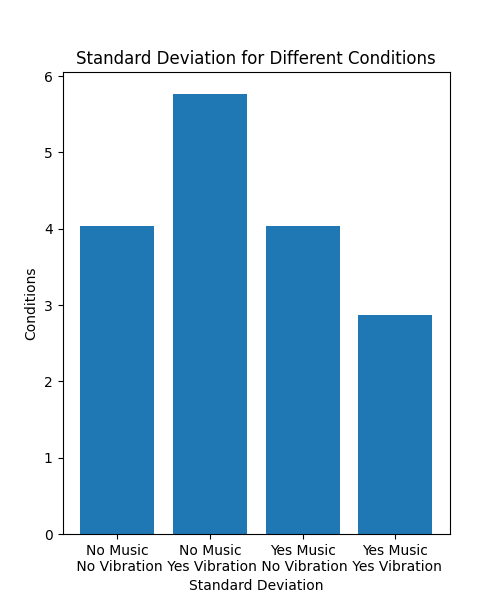
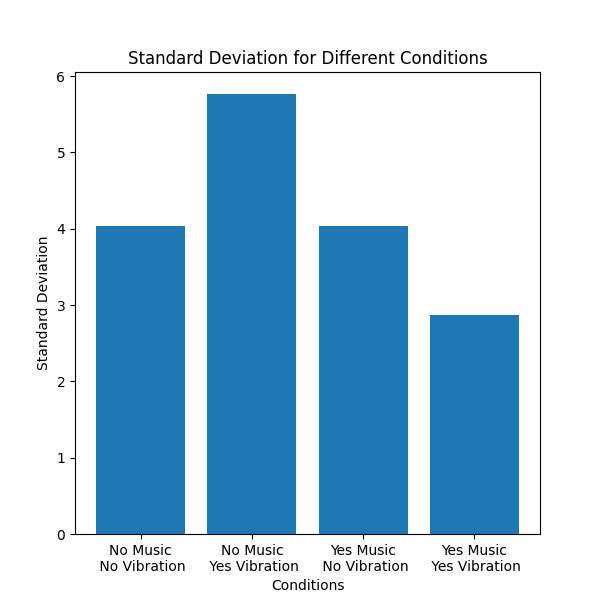
More fixes

diff --git a/analyzing/main.py b/analyzing/main.py
@@ -46,14 +46,14 @@ for item in sd_array:
 x_values = [item[0] for item in sd_array]
 y_values = [item[1] for item in sd_array]
 
-fig = plt.figure(figsize=(5, 6))
+fig = plt.figure(figsize=(6, 6))
 
 # Create a horizontal bar chart
 plt.bar(x_values, y_values)
 
 # Add labels and title
-plt.xlabel("Standard Deviation")
-plt.ylabel("Conditions")
+plt.xlabel("Conditions")
+plt.ylabel("Standard Deviation")
 plt.title("Standard Deviation for Different Conditions")
 
 
